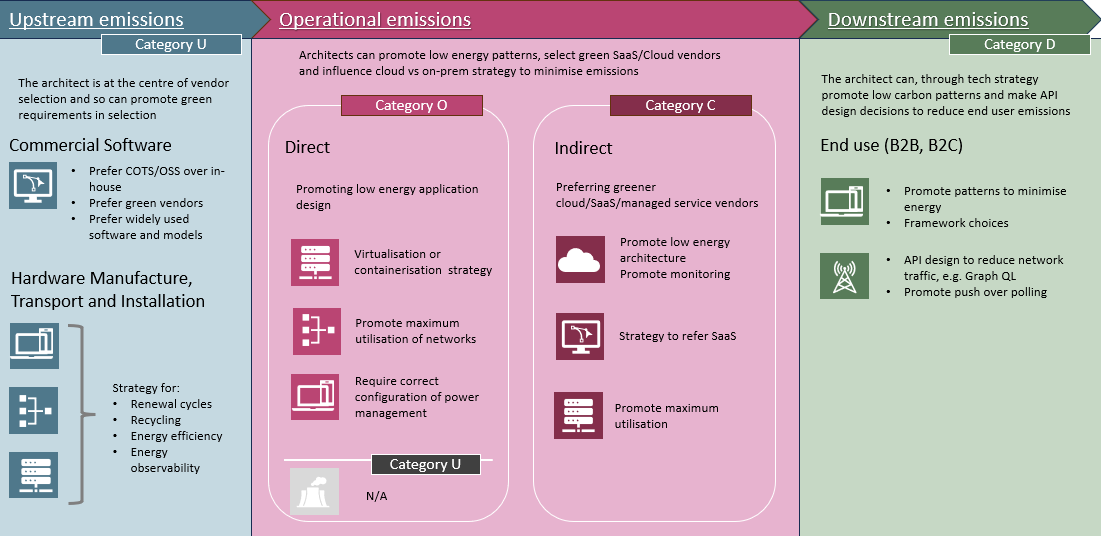
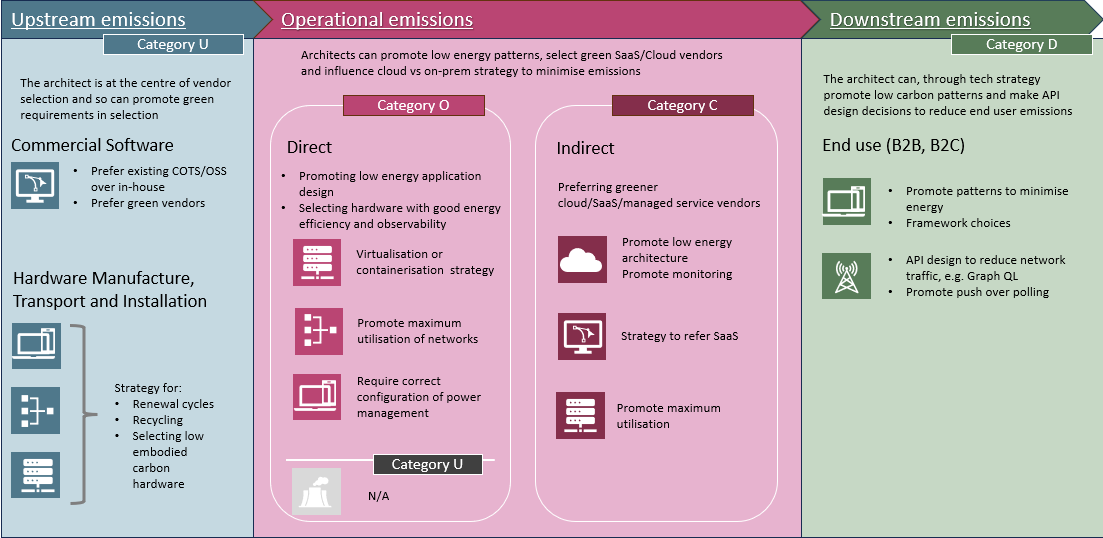
Diagram updates

diff --git a/pages/overlays/role/architect.md b/pages/overlays/role/architect.md
@@ -6,7 +6,7 @@ permalink: /overlays/role/architect
 
 # Architect
 
-As an architect you are able to have significant influence on a company's tech carbon emissions. You mgiht be a technical or solutions or enterprise architect and although the scope may vary across arcitect roles there's many common activities where you can have a positive impact on carbon emissions: 
+As an architect you can exert significant influence on a company's tech carbon emissions. You might be a technical/solutions/enterprise/other architect and although the scope may vary across architecture roles there's many common activities where you can have a positive impact on carbon emissions including: 
 
  1. Setting the tech strategy
  2. Promoting best practice
@@ -19,7 +19,23 @@ The first couple are high level activities that can vary from setting the cloud 
 The remaining 3 are actually all about NFRs to some degree. Tech selection will be done against a set of functional and non-functional requirements and architecture design choices will be done against a set of NFRs, e.g. to promote availability or low cost. Let's see then how strategy and setting NFRs can be used to influence low carbon. 
 
 ## Setting strategy and best practice
+
+The diagram below gives takes the standard and overlays on the categories some examples of how you might influence them:
 ![embodied-carbon](/assets/images/overlays/arch_strat_overlay.png)
+
+We'll now provide a bit more detail on each of these:
+### Upstream
+#### Commercial
+All software creation comes with a cost and the first thing you might decide to do is to trade off open source and COTS software against in-house. Some of the in-house software carbon costs are out of the scope in this standard because they are non-technology items like buildings and transport for employees. Still you may wish to increase your emissions within the standard by using existing software rather than creating your own as existing software is sharing the carbon impact across many orgs, not just yours. 
+
+You may also wish to prefer vendors who report on their emissions and follow sustainability best practices in order to push software and machine learning model creators to be more sustainable. e.g. training models with renewable electricity. 
+
+#### Hardware Manufacture, Transport and Installation
+Not all architects will get involved in hardware selection - servers and network equipment may fall under data centre architects for example. Where you do though there's a few common themes:
+ * Setting renewal cycles, i.e. how often we should replace hardware
+    * By setting a target or saying we favour hardware with the longest support and expected lifetime we reduce the frequency of refresh and thus reduce embodied carbon
+ * Recycling
+ * Embodied carbon target  
 
 ## Setting NFRs
 ![embodied-carbon](/assets/images/overlays/arch_strat_nfrs.png)
